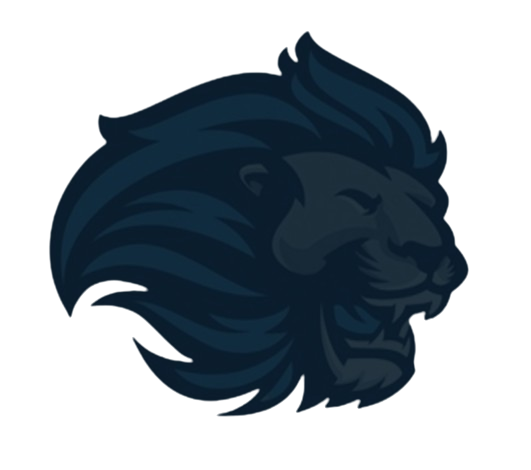
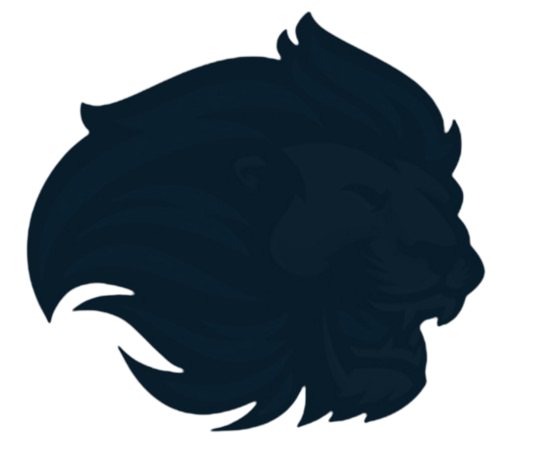
save

Changed region(s): [[0.0301, 0.0301, 0.904, 0.9333], [0.8136, 0.572, 0.8437, 0.6022]]

diff --git a/src/main/resources/templates/deliver/include/sidebar.html b/src/main/resources/templates/deliver/include/sidebar.html
@@ -28,7 +28,7 @@
 
 <nav class="sidebar">
     <div class="logo-menu">
-        <a th:href="@{/deliver}"><h2 class="logo">Home</h2></a>
+        <a th:href="@{/admin}" style="padding-left: 12px"><h2 class="logo"><img src="/images/Lion2.png" alt="LeoLap"></h2></a>
         <i class="bx bx-menu toggle-btn"></i>
     </div>
     <ul class="list">
@@ -52,6 +52,8 @@
         </li>
     </ul>
 </nav>
+
+<img src="/images/LeoLap2.png" alt="Right Image" class="right-image">
 
 <script>
     const sidebar = document.querySelector('.sidebar');

diff --git a/src/main/resources/static/css/sidebar.css b/src/main/resources/static/css/sidebar.css
@@ -125,13 +125,11 @@ body {
 }
 
 .right-image {
-    position: fixed;
-    top: 20%;
-    right: 0;
-    padding-right: 20px;
-    transform: translateY(-50%);
-    max-width: 325px;
-    z-index: 1001;
+    position: absolute;
+    top: 50%;
+    left: 50%;
+    transform: translate(-50%, -50%);
+    max-width: 500px;
 }
 
 .pagination {
